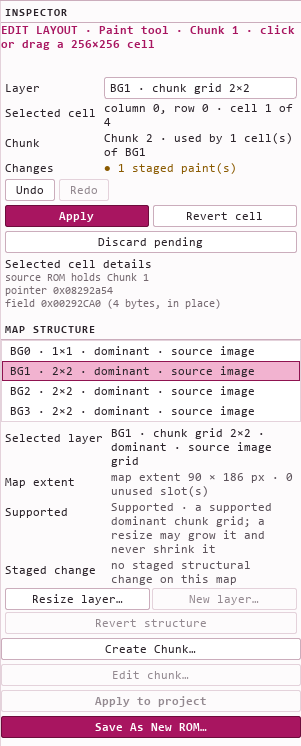
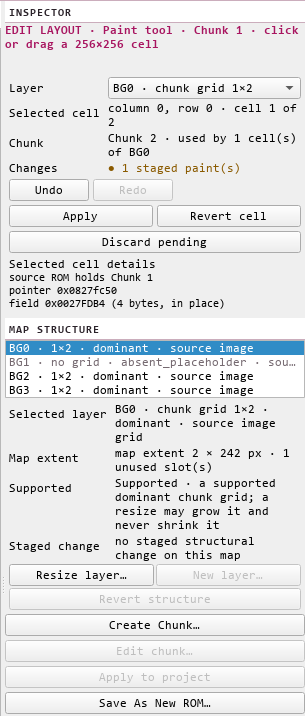
Replace the public Layout-editor plate with a current-theme capture
The published plate still showed the retired pink accent palette: a saturated
magenta Save As New ROM bar and magenta structure rows, against a control surface
the application has not opened for some time. It has been replaced with a real
capture of the real application over the verified canonical ROM, taken through the
Maps editor's Layout mode with one staged paint and cropped without scaling, so
the plate again shows the neutral surface the product actually ships.

The crop bounds are measured from the capture rather than chosen by eye: the
panel's own vertical frame hairline, its accent top border, and the last row of
its final control. The plate is 716 px tall where the old one was 746 because the
panel's own content is shorter; padding it with invented blank space to preserve a
byte count would have been the worse artefact.

The descriptions that accompany the image named a map and layer the harness has
never captured, so they now name what the plate shows, and the record states that
in the MAP STRUCTURE list the application itself elides its longest layer
description. That is the product's own rendering and is recorded rather than
cropped around or retouched, because a published screenshot has to be what the
product shows. The earlier supersession in the same record stays as history.

The owner approved this exact file for publication, and the record carries the
approval with the asset's hash, as that decision requires.

diff --git a/src/data/project.ts b/src/data/project.ts
@@ -1250,17 +1250,17 @@ export const project: ProjectStatus = {
     },
     {
       src: "dbz-layout-editor.png",
-      width: 301,
-      height: 746,
+      width: 305,
+      height: 716,
       alt:
         "The DragonByte Z Inspector pane in the Maps editor's Layout mode for" +
-        " map:0040, layer BG1, showing one staged paint on a 256x256 chunk cell, the" +
+        " map:0064, layer BG0, showing one staged paint on a 256x256 chunk cell, the" +
         " layer's 2x2 chunk grid, the cell's four-byte pointer field being changed in" +
         " place, and the map-structure list naming every layer's form beside the" +
         " resize, Create Chunk and Save As New ROM controls.",
       title: "Layout editing",
       caption:
-        "Layout mode on map:0040, one 256x256 cell of dominant layer BG1. The staged" +
+        "Layout mode on map:0064, one 256x256 cell of dominant layer BG0. The staged" +
         " paint is a four-byte in-place cell write, and the map-structure list states" +
         " which layers may be changed and which stay read-only.",
       facts: [

diff --git a/docs/decisions/0006-public-product-screenshots.md b/docs/decisions/0006-public-product-screenshots.md
@@ -34,6 +34,37 @@ from the real application over the verified canonical ROM with
 | `public/dbz-map-browser.png` | Maps editor, Browse mode, `map:0040`, 1700x1264 | none | `849fe570...810a2e9` |
 | `public/dbz-layout-editor.png` | Maps editor, Layout mode, `map:0040` BG1, one staged paint | crop of the Inspector pane, x=1399 y=86 w=301 h=746 | `36b24698...0e9dba` |
 
+### Superseded 2026-09-28
+
+The Layout-editor plate was replaced again. It still showed the retired pink
+accent palette - a saturated magenta "Save As New ROM" button and magenta
+structure rows - which the shipped theme no longer uses; the Maps editor's right
+hand detail panel is now the neutral grey surface the product opens today. The
+replacement is a real capture of the real application over the verified canonical
+ROM (`940ad5f0...6f059e`, 8,388,608 bytes), taken with
+`tools/qa/visual_pass_capture.py`'s harness through the Maps editor in Layout mode
+with one staged paint, and cropped without scaling:
+
+| Shipped path | Capture | Transform | SHA-256 of the shipped file |
+| --- | --- | --- | --- |
+| `public/dbz-layout-editor.png` | Maps editor, Layout mode, `map:0064` (`PROOF_MAP`), layer BG0, one staged paint, 1700x1264 | crop x=1395 y=75 w=305 h=716 | `481d466e...ba1693` |
+
+The full capture is kept as provenance of the crop
+(`9e8c50d1...0700efb`). The crop bounds are measured from the capture, not chosen
+by eye: x=1395 is the panel's own vertical frame hairline, y=75 its accent top
+border, and y=790 the last row of its final control. The plate is 716 px tall
+rather than the previous 746 because the panel's own content is shorter than the
+old file, and padding it with invented blank space to preserve a byte count would
+be the worse artefact. The Map Browser plate is unchanged and still current.
+
+**The new plate faithfully reproduces one limitation of the current application:**
+in the MAP STRUCTURE list, the longest layer description is elided by the panel
+itself (`...SOU...`) because the panel is narrower than the descriptions. This is
+the application's own rendering, not a crop artefact, and it is recorded here
+rather than cropped around or retouched, because a published screenshot must be
+what the product actually shows.
+
+
 The two files above remain the record of the first approval and their SHAs are
 history, not the current assets. This section is an instance of the decision, not
 a new one, and it widens nothing in the "what this does not authorize" list.

diff --git a/README.md b/README.md
@@ -130,7 +130,7 @@ layer.*
 
 ![The DragonByte Z Inspector in the Maps editor's Layout mode, showing one staged paint on a 256x256 chunk cell](public/dbz-layout-editor.png)
 
-*Layout mode: a staged chunk-cell paint on map:0040, with the map-structure list
+*Layout mode: a staged chunk-cell paint on map:0064, with the map-structure list
 beside it.*
 
 The public progress site is
